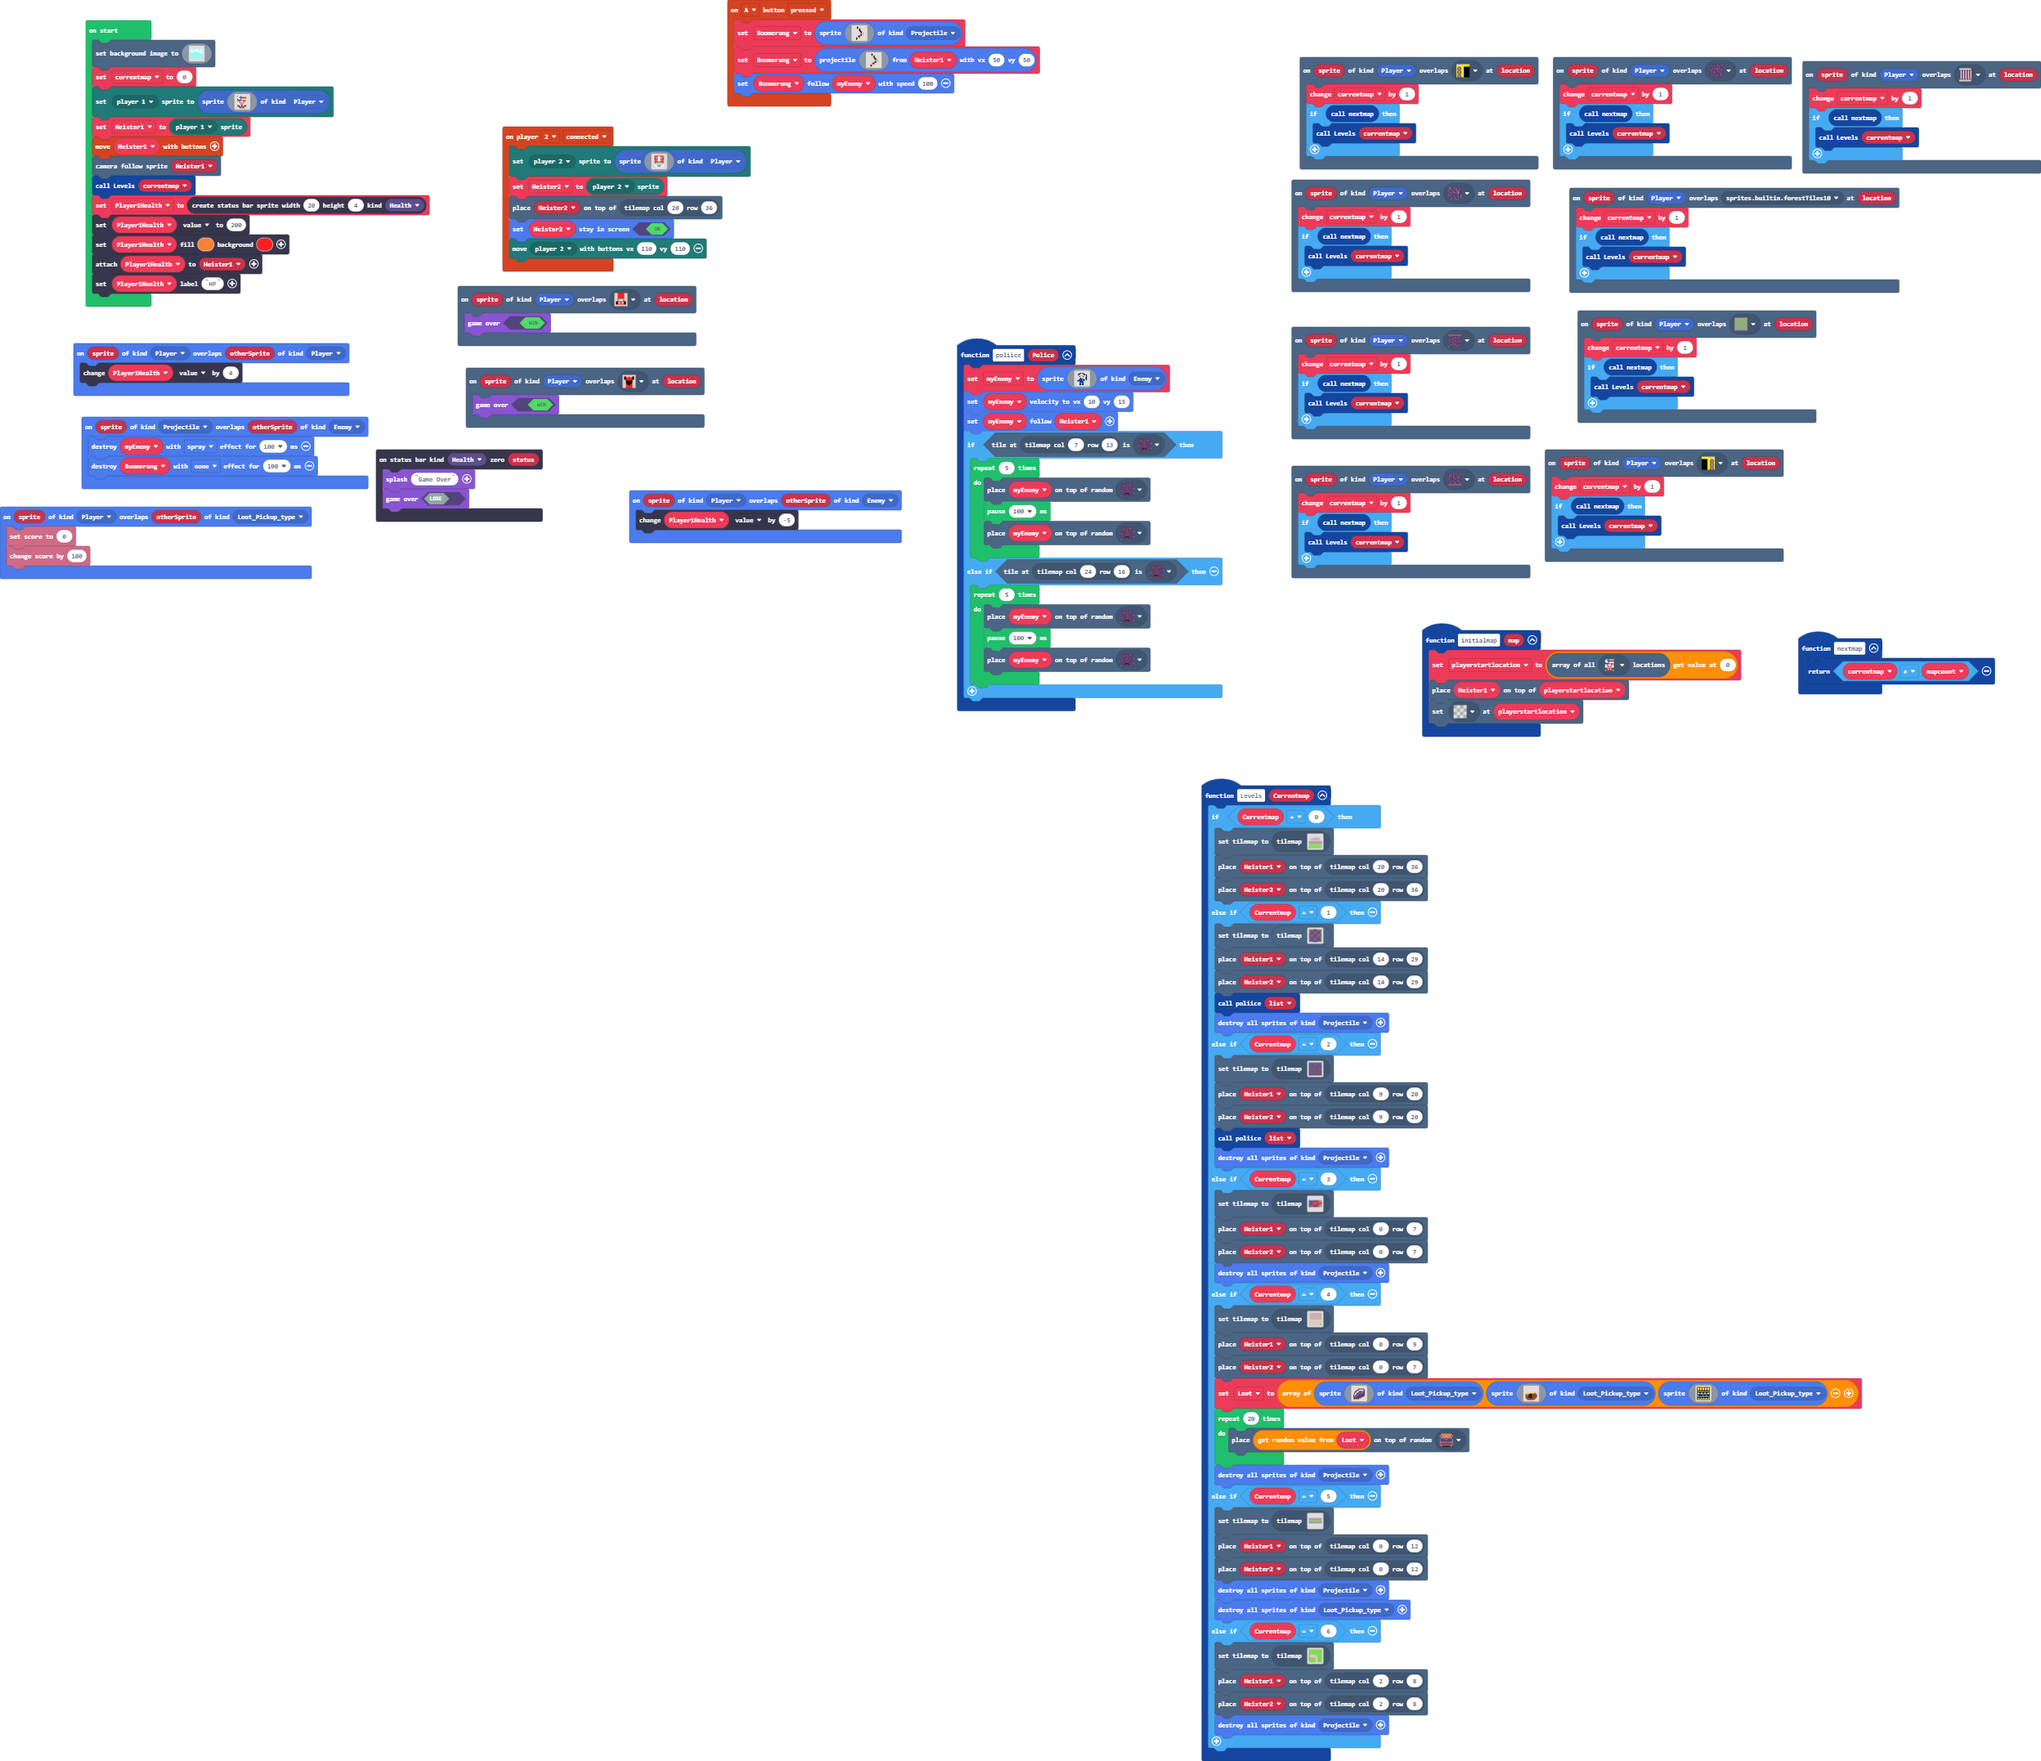
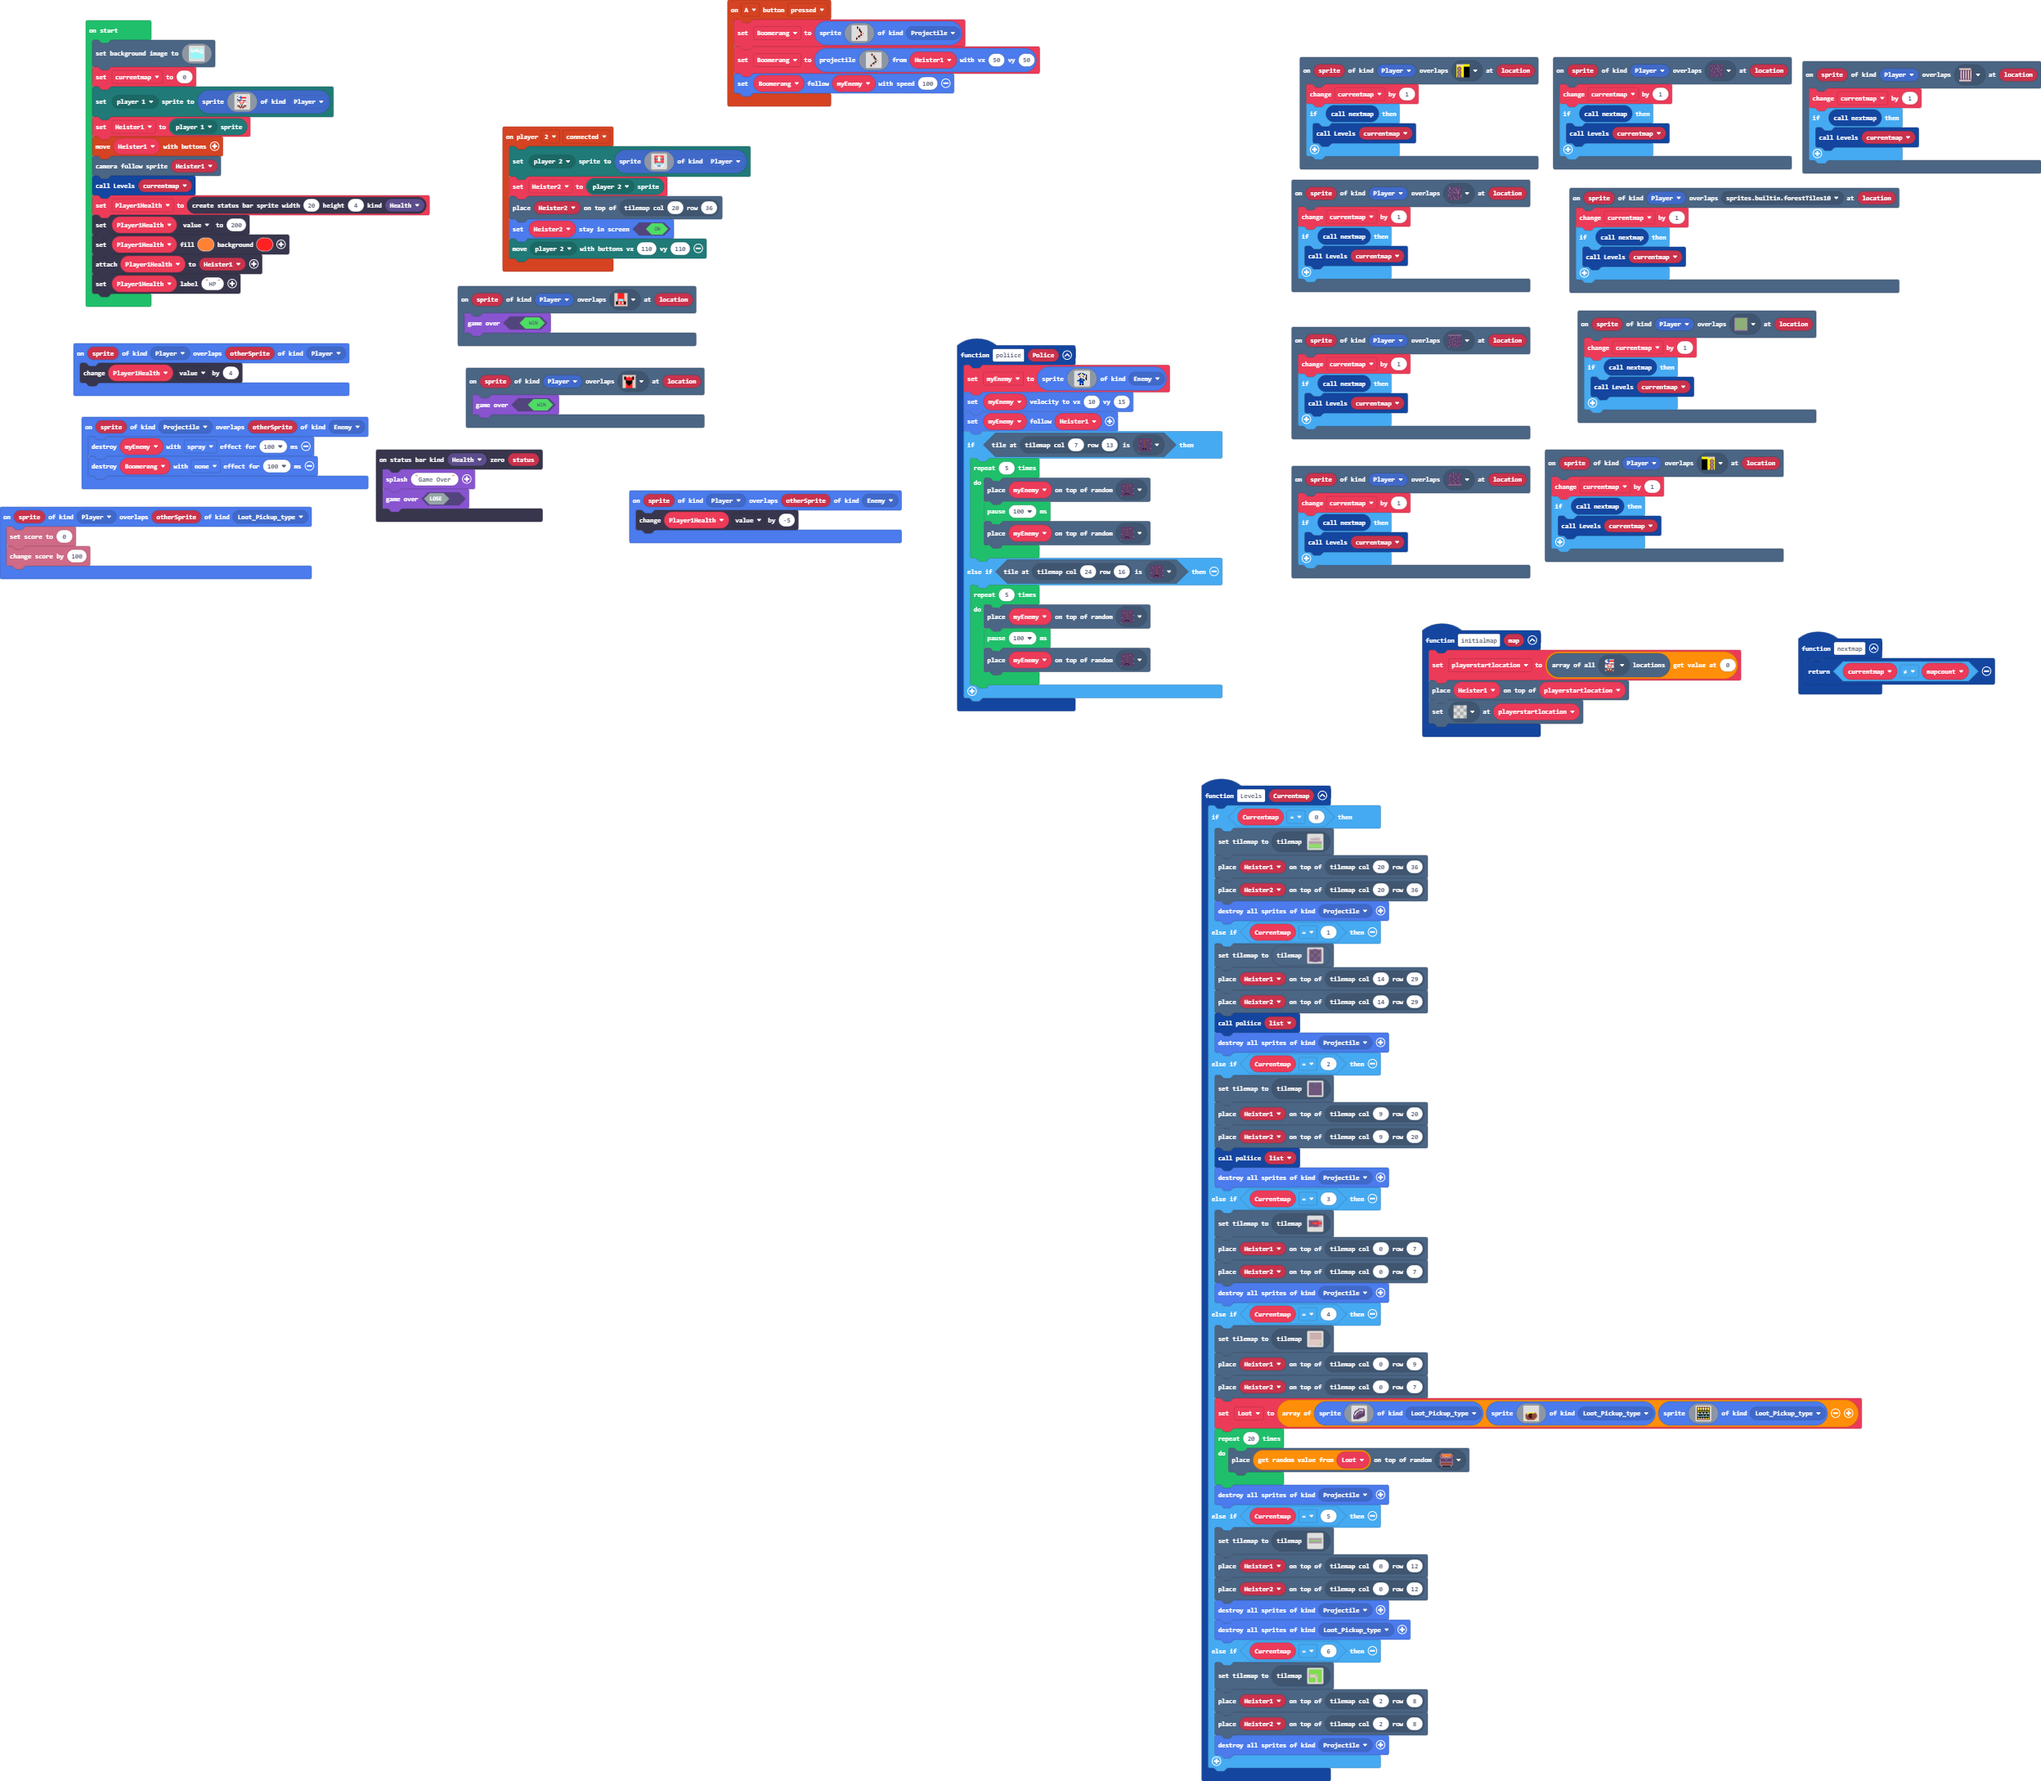
Update main.blocks, main.ts

diff --git a/main.ts b/main.ts
@@ -7,6 +7,7 @@ function Levels (Currentmap: number) {
         tiles.setCurrentTilemap(tilemap`Prototype_bank_entrance`)
         tiles.placeOnTile(Heister1, tiles.getTileLocation(20, 36))
         tiles.placeOnTile(Heister2, tiles.getTileLocation(20, 36))
+        sprites.destroyAllSpritesOfKind(SpriteKind.Projectile)
     } else if (Currentmap == 1) {
         tiles.setCurrentTilemap(tilemap`bank_main_area`)
         tiles.placeOnTile(Heister1, tiles.getTileLocation(14, 29))
